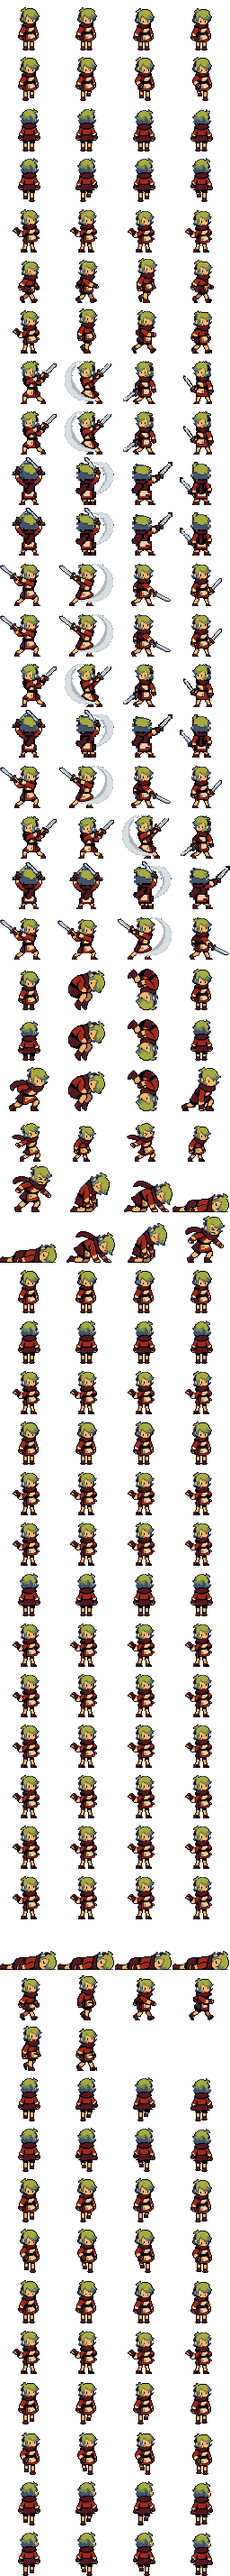
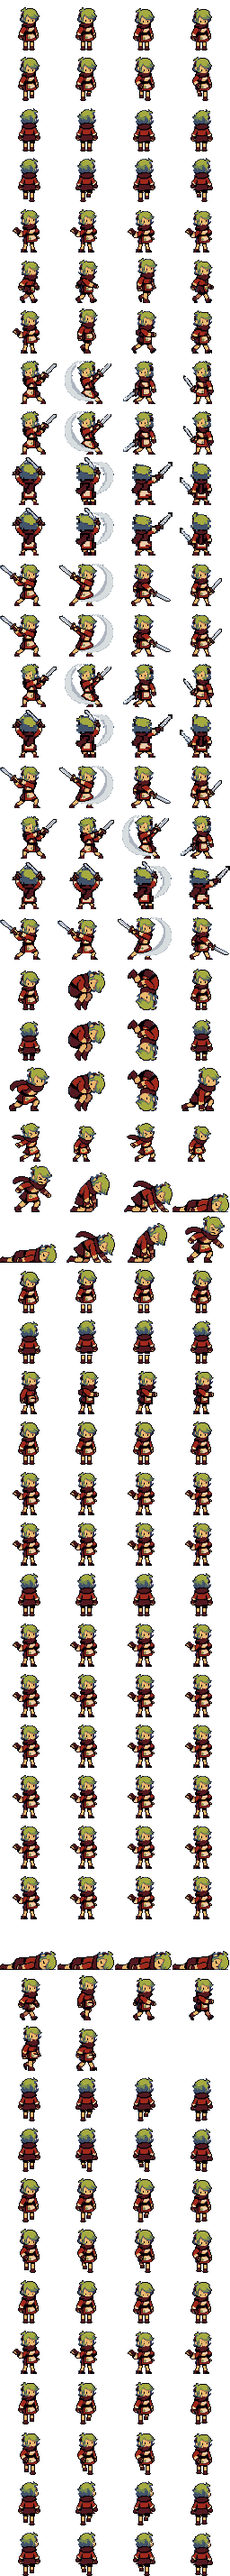
Tokoh utama: pose merapal jurus (cast) 4 arah dari gambar yang ada
Claude-Session: https://claude.ai/code/session_013SaXTJuwinpA9vu4txrWbT

diff --git a/AGENTS.md b/AGENTS.md
@@ -38,3 +38,4 @@ Proyek kini berjalan sepenuhnya di **Godot 4.7.2** (`godot/project.godot`, rende
 - **Gameplay & Konten:** 24 musuh + bos 2 fase, 6 senjata, 4 zirah, 12 item, 38 dialog, 5 jurus sihir + guru, 9 misi & 6 pencapaian, 9 resep kerajinan/tempa, spot memancing, toko, peti, satwa liar, siang-malam & cahaya gua, BGM/SFX asli, save v4 (migrasi v1–v3), serta `export_presets.cfg` untuk Android & macOS.
 - **Tanah benua menyambung (2026-11-27):** semua wilayah luar memakai tanah gaya Sprout KOTAK-KOTAK yang sama (kota = paving batu); `python3 tools/seam_ground.py` (sumber `tools/ground_src/`) menyamakan ukuran gambar tanah dengan kotak `WorldLayout`, menyambung jalan yang putus di perbatasan, dan mengganti garis batas lurus dengan batas bergelombang (salju/rawa memudar). Cek visual semua perbatasan: `xvfb-run -s "-screen 0 1280x720x24" Godot --path godot --rendering-driver opengl3 --script res://tests/_probe_edges.gd` → `/tmp/gt/e_*.png`.
 - **Jembatan (2026-11-27):** 8 jembatan kayu (Danau 1, Hutan 1, Sungai 4, Rawa 1, Salju 1) dari posisi & gambar versi web lama (`tools/bridges/`), ditempel ke gambar tanah oleh `seam_ground.py`, yang juga menulis `godot/core/bridges_data.gd`; `BenuaWorld` menghapus petak air (tabrakan) di bawahnya. Petak air TileMap tak terlihat (air = gambar tanah). Uji: `tests/_probe_bridges.gd`.
+- **Pose merapal (2026-11-27):** `hero_mc2.png` baris 25–27 = cast bawah/atas/samping (samping: badan atas frame jalan bertangan maju di atas kaki diam; bawah/atas: badan naik-turun 1 px). `Player.try_cast_skill` memutar `cast_*` 0,34 dtk (`cast_anim_t` menahan anim diam/jalan). Game Godot belum punya senjata busur, jadi pose busur belum dipakai. Uji: `tests/_probe_cast.gd`.
